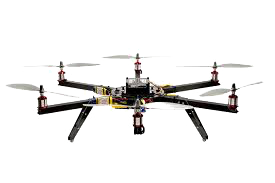
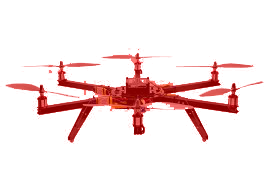
update graphics

Changed region(s): [[0.0, 0.2732, 0.9309, 0.7923], [0.9018, 0.4372, 0.96, 0.4645]]

diff --git a/sim.js b/sim.js
@@ -304,20 +304,29 @@ var imageCollector = function(expectedCount, completeFn){
         }, 'demand', {demandNum: demandNum, str: 'Demand appeared num ' + demandNum});
     };
 
-    var scheduleNextAnimationFrame = function(state, queue, scale, img, ctx, demand_img){
+    var scheduleNextAnimationFrame = function(state, queue, scale, img, ctx, demand_list, demand_dict){
         var delay = config.simulationSpeed / config.fps;
         queue.schedule(delay, function(state, queue, cb){
             state.servers[0].updateCurrentLocation(state, queue);
             ctx.clearRect(0, 0, ctx.canvas.width, ctx.canvas.height);
             var demand_count = state['demands'].length
             for (var i=0; i < demand_count; i++) {
-              ctx.drawImage(demand_img, state.demands[i].x * scale,
-                state.demands[i].y * scale, 100,100);
+              var coords = (state.demands[i].x * scale) + "," + (state.demands[i].y * scale);
+              if (typeof(demand_dict[coords]) !== 'undefined') {
+                ctx.drawImage(demand_dict[coords], (state.demands[i].x * scale) - (demand_dict[coords].width/2),
+                  (state.demands[i].y * scale) - (demand_dict[coords].height/2), 100,100);
+              }
+              else {
+                var random = demand_list[Math.floor(Math.random() * demand_list.length)]
+                demand_dict[coords] = random;
+                ctx.drawImage(random, (state.demands[i].x * scale) - (random.width/2),
+                  (state.demands[i].y * scale) - (random.height/2), 100,100);
+              }
             }
             config.region.draw(ctx, scale);
-            ctx.drawImage(img, state.servers[0].x * scale, 
-              state.servers[0].y * scale, 100, 50);
-            scheduleNextAnimationFrame(state, queue, scale, img, ctx, demand_img);
+            ctx.drawImage(img, (state.servers[0].x * scale) - (img.width/2),
+              (state.servers[0].y * scale) - (img.height/2), 100, 50);
+            scheduleNextAnimationFrame(state, queue, scale, img, ctx, demand_list, demand_dict);
             requestAnimationFrame(cb);
         }, 'frame');
         
@@ -357,16 +366,20 @@ var imageCollector = function(expectedCount, completeFn){
         var ctx = canvas.getContext('2d');
         var img = new Image();
         img.src = 'drone.png'
-        var demand_img = new Image();
-        demand_img.src = 'fire.jpg'
-        img.onload = function() {
-          demand_img.onload = function() {
+        var demand_srcs = ['sick.png', 'fire.png', 'theft.png'];
+        var demand_list = [];
+        for (var i=0; i < demand_srcs.length; i++) {
+          var demand_img = new Image();
+          demand_img.src = demand_srcs[i];
+          demand_list.push(demand_img);
+        }
+          // var ic = imageCollector(2, function(){
             ctx.drawImage(img, config.region.lowerLeft.x * scale, 
                 config.region.lowerLeft.y * scale, 100, 50);
           scheduleNextDemand(state, eventQueue);
           //img.onload = function(){
           //
-          scheduleNextAnimationFrame(state, eventQueue, scale, img, ctx, demand_img);
+          scheduleNextAnimationFrame(state, eventQueue, scale, img, ctx, demand_list, {});
           //};
           //state.servers.push(new Server(config.region.median(), FCFSPolicy));
           //state.servers.push(new Server(config.region.median(), ReturnToMedianPolicy));
@@ -387,8 +400,7 @@ var imageCollector = function(expectedCount, completeFn){
           //}
           console.log("Average wait time of serviced demands", stats.waitTimeOfServiced / stats.numServiced);
           console.log("Average distance traveled per serviced demand", stats.distanceTraveled / stats.numDemands);
-      };
-    };
+    //   });
     // img.onload = ic;
     // demand_img.onload = ic;
     }

diff --git a/index.html b/index.html
@@ -2,6 +2,11 @@
 <head>
   <script src="priority-queue.js"></script>
   <script src="sim.js"></script>
+  <style>
+    body { 
+      background-image: url('background.jpg');
+    }
+  </style>
 </head>
 <body>
   <canvas id="canvas" width="700" height="700"></canvas>
